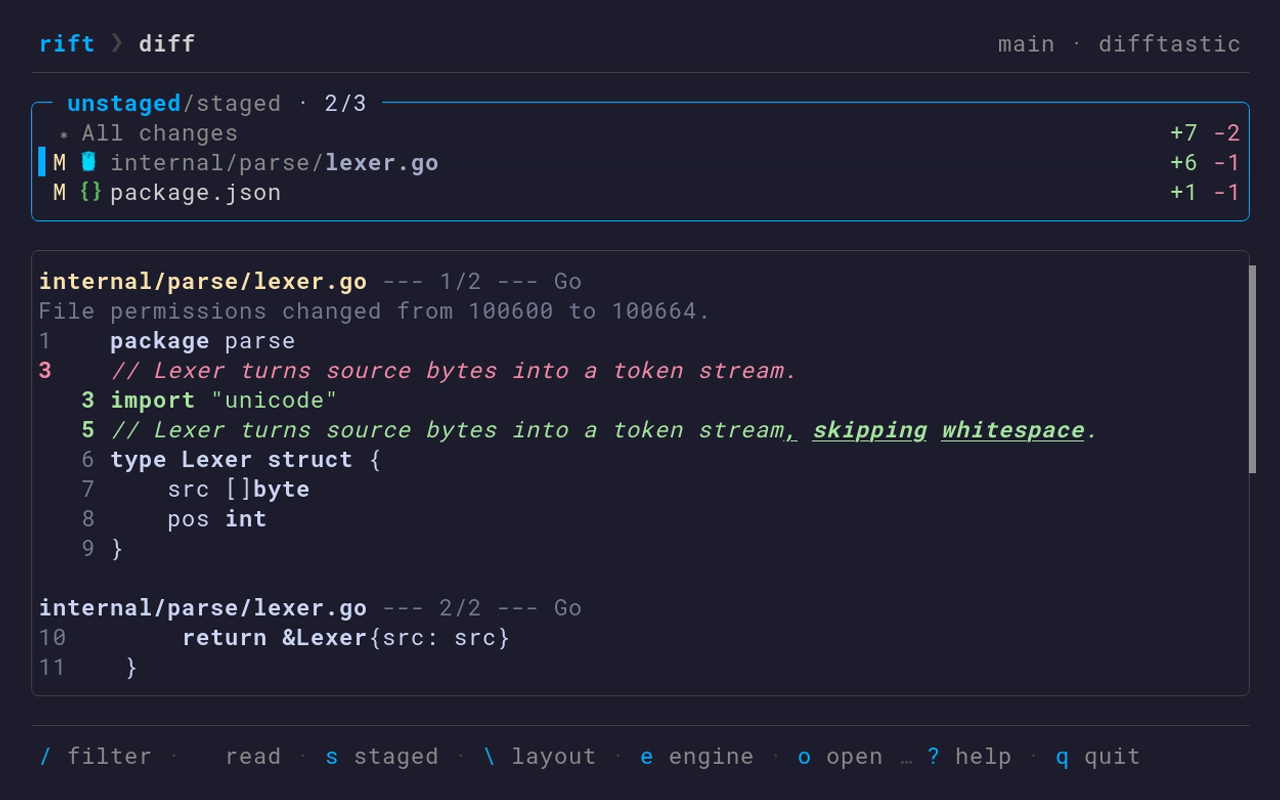
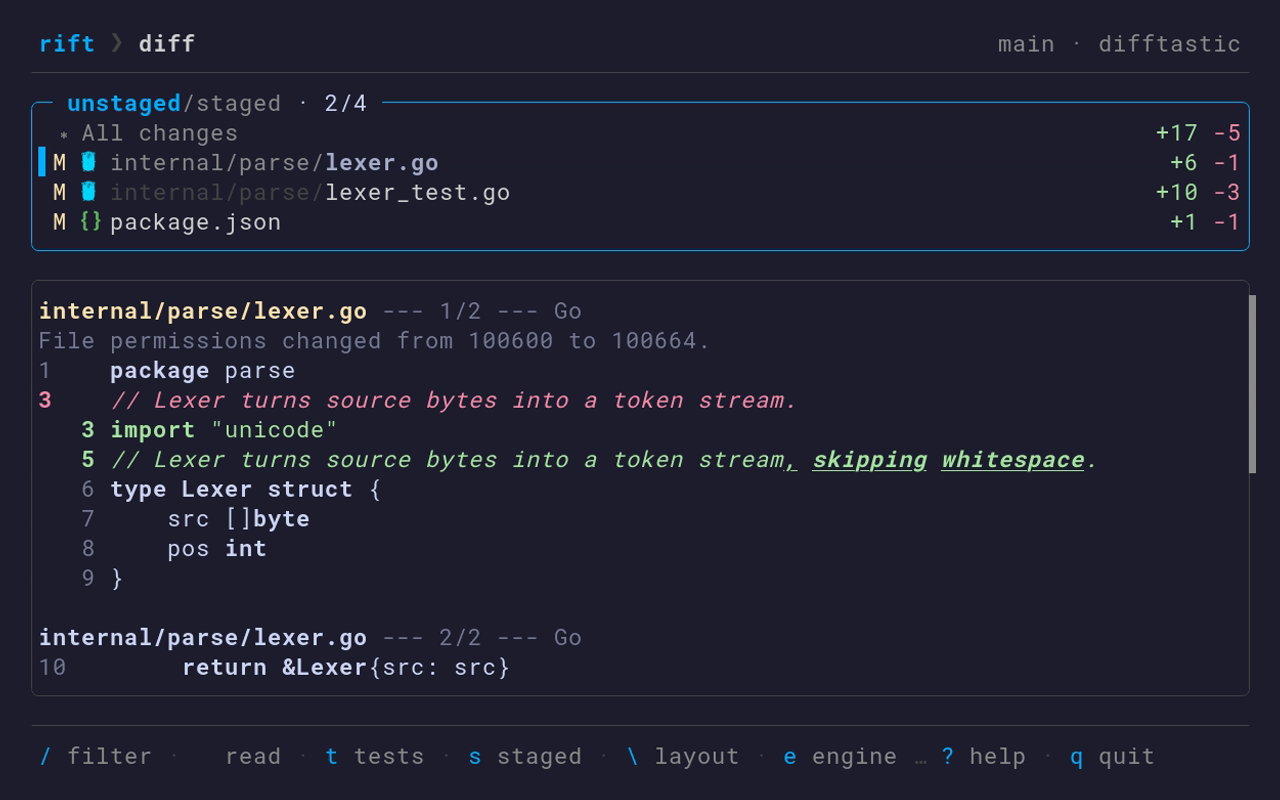
Add a tests-lens demo capture
Seed the demo repo with a test file whose working-tree edits modify,
rename, and add a spec, so `rift diff --tests` shows a clean spread of
~ modified / → renamed / + added. Add demo/tests.tape and wire it into
`mise run demo`, producing docs/images/tests.{gif,png}, and document the
lens in the README.

Regenerate the other captures for consistency: the shared demo repo now
carries the test file, so the diff and stage browsers list it and the
diff footer surfaces the `t tests` toggle.

diff --git a/README.md b/README.md
@@ -44,6 +44,12 @@ Powered by difftastic: reformatting noise disappears and you see what actually c
 
 ![rift stash — stash manager](docs/images/stash.png)
 
+### Test lens
+
+Add `--tests` to `rift diff` or `rift log` to read a change by the *tests* it touches instead of its files — handy for reviewing agent-generated code. Each spec is marked by how the diff changed it: `+` added, `→` renamed, `~` modified (the `~` cases, where an assertion can be quietly weakened under an unchanged name, are the ones worth a close read). The preview scrolls to the selected test and names it in the border. Toggle live between the file view and the tests view with `t`; works on the working tree, `--staged`, or a commit range, and supports `--print` / `--json`. Tests are extracted across Go, JavaScript/TypeScript, Ruby, Python, and Rust — including `t.Run` subtests and table-driven cases.
+
+![rift diff --tests — the tests a change added, renamed, or modified](docs/images/tests.gif)
+
 ### Interactive staging
 
 `rift stage` replaces `git add -p` with a two-panel TUI: a file list with structural diff preview and hunk-level staging, the active hunk clearly marked in the gutter.
